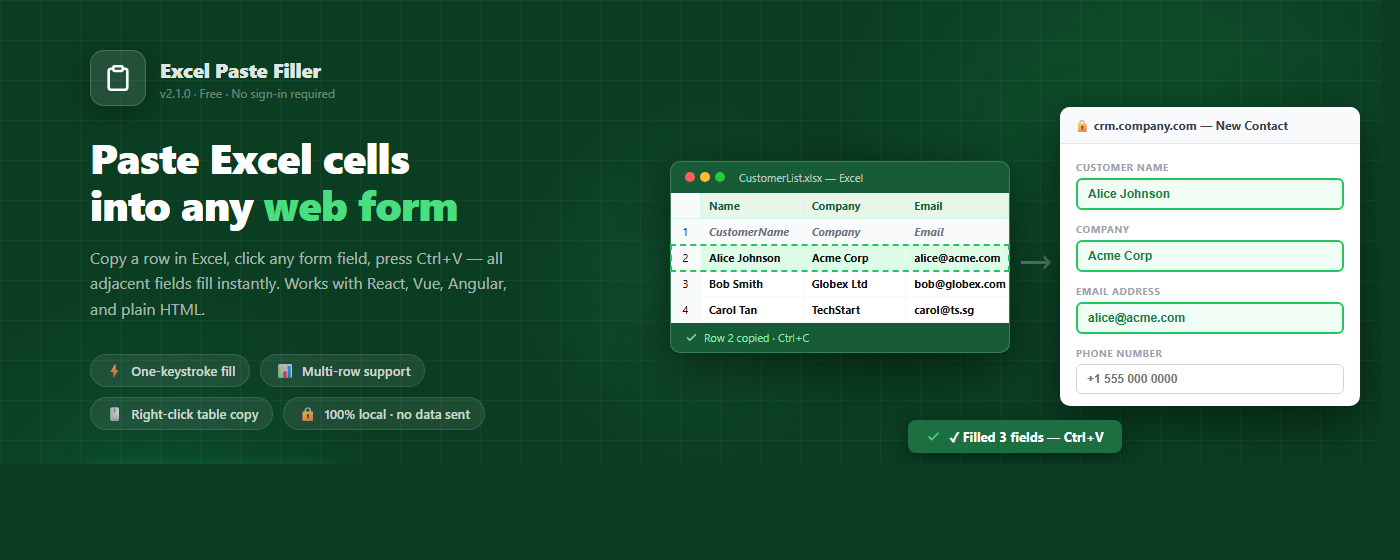
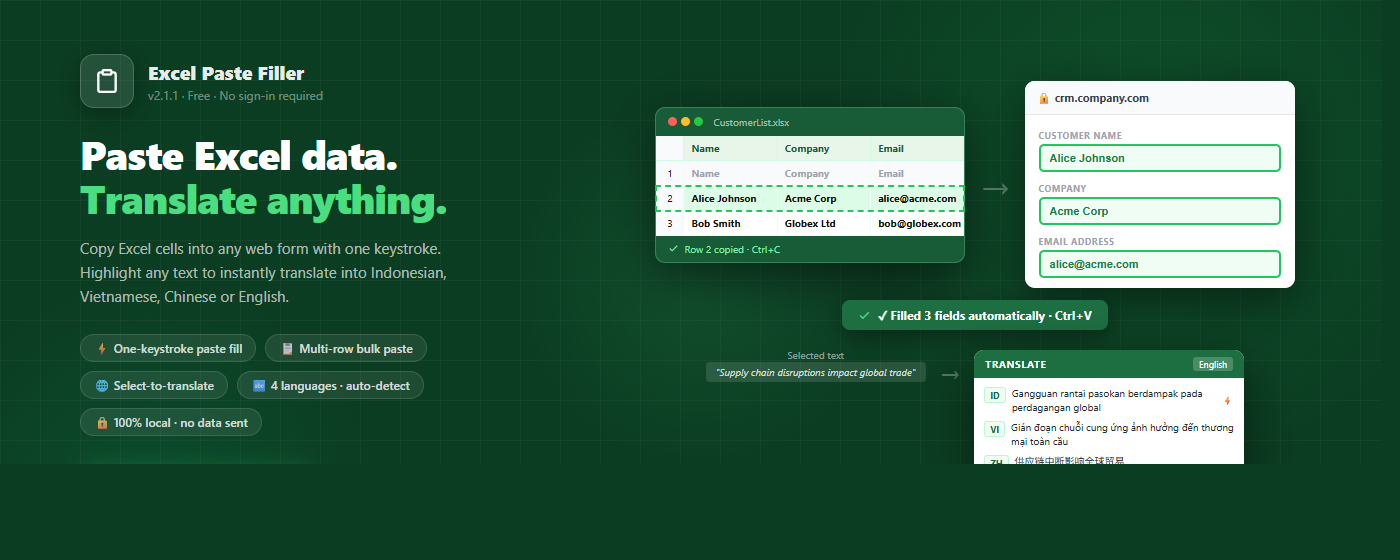
Rebuild promo tiles for v2.1.1 - add translate feature

diff --git a/screenshots/promo_marquee.html b/screenshots/promo_marquee.html
@@ -5,74 +5,72 @@
 <style>
 *{box-sizing:border-box;margin:0;padding:0}
 body{width:1400px;height:560px;overflow:hidden;font-family:system-ui,-apple-system,sans-serif;background:#0b3d22;position:relative}
-
-/* grid */
 .grid{position:absolute;inset:0;background-image:linear-gradient(rgba(255,255,255,.035) 1px,transparent 1px),linear-gradient(90deg,rgba(255,255,255,.035) 1px,transparent 1px);background-size:40px 40px}
+.blob1{position:absolute;width:700px;height:700px;border-radius:50%;background:radial-gradient(circle,rgba(34,197,94,.14) 0%,transparent 65%);top:-200px;right:-100px}
+.blob2{position:absolute;width:500px;height:500px;border-radius:50%;background:radial-gradient(circle,rgba(16,185,129,.12) 0%,transparent 65%);bottom:-200px;left:-100px}
+.blob3{position:absolute;width:400px;height:400px;border-radius:50%;background:radial-gradient(circle,rgba(29,111,66,.35) 0%,transparent 65%);top:50%;left:50%;transform:translate(-50%,-50%)}
+.layout{position:relative;z-index:2;display:flex;align-items:center;height:100%;padding:0 80px;gap:70px}
 
-/* glow blobs */
-.blob1{position:absolute;width:700px;height:700px;border-radius:50%;background:radial-gradient(circle,rgba(34,197,94,.14) 0%,transparent 65%);top:-200px;right:-100px;pointer-events:none}
-.blob2{position:absolute;width:500px;height:500px;border-radius:50%;background:radial-gradient(circle,rgba(16,185,129,.12) 0%,transparent 65%);bottom:-200px;left:-100px;pointer-events:none}
-.blob3{position:absolute;width:400px;height:400px;border-radius:50%;background:radial-gradient(circle,rgba(29,111,66,.35) 0%,transparent 65%);top:50%;left:50%;transform:translate(-50%,-50%);pointer-events:none}
-
-/* layout: left text | right visual */
-.layout{position:relative;z-index:2;display:flex;align-items:center;height:100%;padding:0 90px;gap:80px}
-
-/* ── LEFT ── */
-.left{flex:0 0 auto;max-width:500px}
-.logo-row{display:flex;align-items:center;gap:14px;margin-bottom:28px}
-.logo-box{width:56px;height:56px;background:rgba(255,255,255,.1);border:1px solid rgba(255,255,255,.18);border-radius:14px;display:flex;align-items:center;justify-content:center;box-shadow:0 6px 24px rgba(0,0,0,.3)}
-.product-name{font-size:20px;font-weight:800;color:rgba(255,255,255,.9);letter-spacing:-.2px}
+/* LEFT */
+.left{flex:0 0 auto;max-width:480px}
+.logo-row{display:flex;align-items:center;gap:14px;margin-bottom:24px}
+.logo-box{width:54px;height:54px;background:rgba(255,255,255,.1);border:1px solid rgba(255,255,255,.18);border-radius:14px;display:flex;align-items:center;justify-content:center;box-shadow:0 6px 24px rgba(0,0,0,.3)}
+.product-name{font-size:19px;font-weight:800;color:rgba(255,255,255,.9)}
 .product-ver{font-size:12px;color:rgba(255,255,255,.4);margin-top:2px}
-
-.headline{font-size:42px;font-weight:900;color:#fff;line-height:1.1;letter-spacing:-.8px;margin-bottom:18px}
+.headline{font-size:40px;font-weight:900;color:#fff;line-height:1.1;letter-spacing:-.8px;margin-bottom:16px}
 .headline span{color:#4ade80}
-.sub{font-size:16px;color:rgba(255,255,255,.65);line-height:1.6;margin-bottom:32px;max-width:420px}
-
-.pills{display:flex;flex-wrap:wrap;gap:10px;margin-bottom:36px}
-.pill{display:flex;align-items:center;gap:7px;background:rgba(255,255,255,.08);border:1px solid rgba(255,255,255,.12);border-radius:20px;padding:6px 14px;font-size:13px;color:rgba(255,255,255,.8);font-weight:600}
-.pill-icon{font-size:14px}
-
+.sub{font-size:15px;color:rgba(255,255,255,.65);line-height:1.6;margin-bottom:26px;max-width:420px}
+.pills{display:flex;flex-wrap:wrap;gap:9px;margin-bottom:30px}
+.pill{display:flex;align-items:center;gap:6px;background:rgba(255,255,255,.08);border:1px solid rgba(255,255,255,.12);border-radius:20px;padding:5px 13px;font-size:12px;color:rgba(255,255,255,.8);font-weight:600}
 .cta-row{display:flex;align-items:center;gap:16px}
-.btn-cta{display:inline-flex;align-items:center;gap:8px;background:#22c55e;color:#fff;padding:12px 28px;border-radius:10px;font-size:15px;font-weight:800;box-shadow:0 4px 20px rgba(34,197,94,.4);letter-spacing:-.1px}
+.btn-cta{display:inline-flex;align-items:center;gap:8px;background:#22c55e;color:#fff;padding:11px 26px;border-radius:10px;font-size:14px;font-weight:800;box-shadow:0 4px 20px rgba(34,197,94,.4)}
 .privacy-note{font-size:12px;color:rgba(255,255,255,.4);display:flex;align-items:center;gap:5px}
 
-/* ── RIGHT visual ── */
+/* RIGHT */
 .right{flex:1;position:relative;display:flex;align-items:center;justify-content:center}
+.right-inner{display:flex;flex-direction:column;align-items:center;gap:12px}
+.win-row{display:flex;align-items:center;gap:14px}
 
-/* Excel mini window */
-.excel-win{background:#217346;border-radius:10px;width:340px;box-shadow:0 12px 48px rgba(0,0,0,.5);border:1px solid rgba(255,255,255,.1)}
-.win-header{background:#185c37;border-radius:10px 10px 0 0;padding:8px 14px;display:flex;align-items:center;gap:8px}
-.win-dots{display:flex;gap:5px}
-.wd{width:10px;height:10px;border-radius:50%}
+/* Excel window */
+.excel-win{background:#217346;border-radius:10px;width:310px;box-shadow:0 12px 48px rgba(0,0,0,.5);border:1px solid rgba(255,255,255,.1)}
+.win-header{background:#185c37;border-radius:10px 10px 0 0;padding:7px 12px;display:flex;align-items:center;gap:6px}
+.win-dots{display:flex;gap:4px}
+.wd{width:9px;height:9px;border-radius:50%}
 .wr{background:#ff5f57}.wy{background:#ffbd2e}.wg{background:#28c840}
-.win-title{font-size:11px;color:rgba(255,255,255,.7);margin-left:6px}
-.excel-grid{background:#fff;border-radius:0 0 0 0}
-.grid-head{display:grid;grid-template-columns:30px repeat(3,1fr);background:#e8f5e9}
-.gcell{padding:5px 8px;font-size:11px;font-weight:700;color:#185c37;border-right:1px solid #d1fae5;border-bottom:1px solid #d1fae5;white-space:nowrap;overflow:hidden}
+.win-title{font-size:10px;color:rgba(255,255,255,.6);margin-left:4px}
+.excel-grid{background:#fff}
+.grid-head{display:grid;grid-template-columns:28px repeat(3,1fr);background:#e8f5e9}
+.gcell{padding:5px 7px;font-size:10px;font-weight:700;color:#185c37;border-right:1px solid #d1fae5;border-bottom:1px solid #d1fae5;white-space:nowrap;overflow:hidden}
 .gcell.num{color:#9ca3af;background:#f9fafb;font-weight:400;text-align:center}
-.grid-row{display:grid;grid-template-columns:30px repeat(3,1fr)}
+.grid-row{display:grid;grid-template-columns:28px repeat(3,1fr)}
 .grid-row.sel{background:#dcfce7;outline:2px dashed #22c55e;outline-offset:-1px}
-.gcell.d{padding:5px 8px;font-size:11px;color:#111;border-right:1px solid #f0fdf4;border-bottom:1px solid #f0fdf4;white-space:nowrap;overflow:hidden}
-.copy-bar{background:#185c37;border-radius:0 0 10px 10px;padding:7px 14px;font-size:11px;color:#86efac;display:flex;align-items:center;gap:6px}
+.gcell.d{padding:5px 7px;font-size:10px;color:#111;border-right:1px solid #f0fdf4;border-bottom:1px solid #f0fdf4;white-space:nowrap;overflow:hidden}
+.copy-bar{background:#185c37;border-radius:0 0 10px 10px;padding:6px 12px;font-size:10px;color:#86efac;display:flex;align-items:center;gap:5px}
+.big-arrow{font-size:36px;color:rgba(255,255,255,.3)}
 
-/* arrow */
-.big-arrow{font-size:44px;color:rgba(255,255,255,.3);margin:0 -8px;user-select:none}
-
-/* Form mini window */
-.form-win{background:#fff;border-radius:10px;width:300px;box-shadow:0 12px 48px rgba(0,0,0,.5)}
-.form-header{background:#f9fafb;border-radius:10px 10px 0 0;padding:10px 14px;border-bottom:1px solid #e5e7eb;font-size:12px;font-weight:700;color:#374151}
-.form-body{padding:16px 16px 12px}
-.frow{margin-bottom:12px}
-.flabel{font-size:10px;font-weight:700;text-transform:uppercase;letter-spacing:.05em;color:#9ca3af;margin-bottom:4px}
-.finput{width:100%;padding:7px 10px;border-radius:6px;font-size:12px;font-weight:600}
+/* Form window */
+.form-win{background:#fff;border-radius:10px;width:270px;box-shadow:0 12px 48px rgba(0,0,0,.5)}
+.form-header{background:#f9fafb;border-radius:10px 10px 0 0;padding:9px 12px;border-bottom:1px solid #e5e7eb;font-size:11px;font-weight:700;color:#374151}
+.form-body{padding:14px 14px 10px}
+.frow{margin-bottom:10px}
+.flabel{font-size:9px;font-weight:700;text-transform:uppercase;letter-spacing:.05em;color:#9ca3af;margin-bottom:3px}
+.finput{width:100%;padding:6px 9px;border-radius:5px;font-size:11px;font-weight:600}
 .finput.filled{border:2px solid #22c55e;background:#f0fdf4;color:#15803d}
 .finput.empty{border:1px solid #d1d5db;background:#fff;color:#d1d5db}
+.toast{background:#1d6f42;color:#fff;border-radius:8px;padding:7px 16px;font-size:12px;font-weight:700;display:flex;align-items:center;gap:7px;box-shadow:0 6px 20px rgba(0,0,0,.35);white-space:nowrap}
 
-/* toast overlay */
-.toast{background:#1d6f42;color:#fff;border-radius:8px;padding:8px 18px;font-size:13px;font-weight:700;display:flex;align-items:center;gap:8px;box-shadow:0 6px 20px rgba(0,0,0,.35);margin-top:14px;align-self:center;white-space:nowrap}
-
-.right-inner{display:flex;flex-direction:column;align-items:center;gap:0}
-.win-row{display:flex;align-items:center;gap:14px}
+/* Translate tooltip */
+.tip-win{background:#fff;border-radius:10px;width:270px;box-shadow:0 12px 48px rgba(0,0,0,.5);overflow:hidden;margin-top:4px}
+.tip-header{background:#1d6f42;padding:7px 11px;display:flex;align-items:center;gap:7px}
+.tip-title{font-size:10px;font-weight:700;letter-spacing:.06em;text-transform:uppercase;color:#fff;flex:1}
+.tip-src{font-size:9px;background:rgba(255,255,255,.2);border-radius:3px;padding:1px 6px;color:#fff}
+.tip-body{padding:8px 10px;display:flex;flex-direction:column;gap:6px}
+.tip-row{display:flex;align-items:flex-start;gap:6px}
+.tip-badge{font-size:9px;font-weight:700;background:#f0fdf4;color:#166534;border:1px solid #bbf7d0;border-radius:3px;padding:1px 5px;white-space:nowrap;flex-shrink:0;margin-top:1px}
+.tip-text{font-size:10px;color:#1f2937;line-height:1.4;flex:1}
+.tip-cache{font-size:9px;color:#9ca3af;align-self:center}
+.sel-label{font-size:10px;color:rgba(255,255,255,.5);text-align:center;margin-top:2px}
+.sel-text{background:rgba(255,255,255,.12);border-radius:4px;padding:3px 10px;font-size:10px;color:rgba(255,255,255,.8);font-style:italic;text-align:center}
 </style>
 </head>
 <body>
@@ -82,124 +80,104 @@ body{width:1400px;height:560px;overflow:hidden;font-family:system-ui,-apple-syst
 <div class="blob3"></div>
 
 <div class="layout">
-
-  <!-- LEFT: copy -->
+  <!-- LEFT -->
   <div class="left">
     <div class="logo-row">
       <div class="logo-box">
-        <svg width="28" height="28" viewBox="0 0 24 24" fill="none" stroke="#fff" stroke-width="2.2">
+        <svg width="26" height="26" viewBox="0 0 24 24" fill="none" stroke="#fff" stroke-width="2.2">
           <path d="M16 4h2a2 2 0 0 1 2 2v14a2 2 0 0 1-2 2H6a2 2 0 0 1-2-2V6a2 2 0 0 1 2-2h2"/>
           <rect x="8" y="2" width="8" height="4" rx="1"/>
         </svg>
       </div>
       <div>
         <div class="product-name">Excel Paste Filler</div>
-        <div class="product-ver">v2.1.0 · Free · No sign-in required</div>
+        <div class="product-ver">v2.1.1 · Free · No sign-in required</div>
       </div>
     </div>
-
-    <div class="headline">Paste Excel cells<br>into any <span>web form</span></div>
-    <div class="sub">Copy a row in Excel, click any form field, press Ctrl+V — all adjacent fields fill instantly. Works with React, Vue, Angular, and plain HTML.</div>
-
+    <div class="headline">Paste Excel data.<br><span>Translate anything.</span></div>
+    <div class="sub">Copy Excel cells into any web form with one keystroke. Highlight any text to instantly translate into Indonesian, Vietnamese, Chinese or English.</div>
     <div class="pills">
-      <div class="pill"><span class="pill-icon">⚡</span>One-keystroke fill</div>
-      <div class="pill"><span class="pill-icon">📊</span>Multi-row support</div>
-      <div class="pill"><span class="pill-icon">🖱</span>Right-click table copy</div>
-      <div class="pill"><span class="pill-icon">🔒</span>100% local · no data sent</div>
+      <div class="pill">⚡ One-keystroke paste fill</div>
+      <div class="pill">📋 Multi-row bulk paste</div>
+      <div class="pill">🌐 Select-to-translate</div>
+      <div class="pill">🔤 4 languages · auto-detect</div>
+      <div class="pill">🔒 100% local · no data sent</div>
     </div>
-
     <div class="cta-row">
       <div class="btn-cta">
-        <svg width="18" height="18" viewBox="0 0 24 24" fill="none" stroke="#fff" stroke-width="2.5"><path d="M16 4h2a2 2 0 0 1 2 2v14a2 2 0 0 1-2 2H6a2 2 0 0 1-2-2V6a2 2 0 0 1 2-2h2"/><rect x="8" y="2" width="8" height="4" rx="1"/></svg>
+        <svg width="16" height="16" viewBox="0 0 24 24" fill="none" stroke="#fff" stroke-width="2.5"><path d="M16 4h2a2 2 0 0 1 2 2v14a2 2 0 0 1-2 2H6a2 2 0 0 1-2-2V6a2 2 0 0 1 2-2h2"/><rect x="8" y="2" width="8" height="4" rx="1"/></svg>
         Add to Chrome — Free
       </div>
       <div class="privacy-note">
-        <svg width="13" height="13" viewBox="0 0 24 24" fill="none" stroke="currentColor" stroke-width="2"><path d="M12 22s8-4 8-10V5l-8-3-8 3v7c0 6 8 10 8 10z"/></svg>
+        <svg width="12" height="12" viewBox="0 0 24 24" fill="none" stroke="currentColor" stroke-width="2"><path d="M12 22s8-4 8-10V5l-8-3-8 3v7c0 6 8 10 8 10z"/></svg>
         No account · No tracking
       </div>
     </div>
   </div>
 
-  <!-- RIGHT: visual demo -->
+  <!-- RIGHT -->
   <div class="right">
     <div class="right-inner">
+      <!-- Paste Fill demo -->
       <div class="win-row">
-        <!-- Excel window -->
         <div class="excel-win">
           <div class="win-header">
             <div class="win-dots"><div class="wd wr"></div><div class="wd wy"></div><div class="wd wg"></div></div>
-            <div class="win-title">CustomerList.xlsx — Excel</div>
+            <div class="win-title">CustomerList.xlsx</div>
           </div>
           <div class="excel-grid">
             <div class="grid-head">
-              <div class="gcell num"></div>
-              <div class="gcell">Name</div>
-              <div class="gcell">Company</div>
-              <div class="gcell">Email</div>
+              <div class="gcell num"></div><div class="gcell">Name</div><div class="gcell">Company</div><div class="gcell">Email</div>
             </div>
             <div class="grid-row" style="background:#f9fafb">
-              <div class="gcell num d">1</div>
-              <div class="gcell d" style="color:#6b7280;font-style:italic">CustomerName</div>
-              <div class="gcell d" style="color:#6b7280;font-style:italic">Company</div>
-              <div class="gcell d" style="color:#6b7280;font-style:italic">Email</div>
+              <div class="gcell num d">1</div><div class="gcell d" style="color:#9ca3af">Name</div><div class="gcell d" style="color:#9ca3af">Company</div><div class="gcell d" style="color:#9ca3af">Email</div>
             </div>
             <div class="grid-row sel">
-              <div class="gcell num d">2</div>
-              <div class="gcell d">Alice Johnson</div>
-              <div class="gcell d">Acme Corp</div>
-              <div class="gcell d">alice@acme.com</div>
+              <div class="gcell num d">2</div><div class="gcell d">Alice Johnson</div><div class="gcell d">Acme Corp</div><div class="gcell d">alice@acme.com</div>
             </div>
             <div class="grid-row">
-              <div class="gcell num d">3</div>
-              <div class="gcell d">Bob Smith</div>
-              <div class="gcell d">Globex Ltd</div>
-              <div class="gcell d">bob@globex.com</div>
-            </div>
-            <div class="grid-row">
-              <div class="gcell num d">4</div>
-              <div class="gcell d">Carol Tan</div>
-              <div class="gcell d">TechStart</div>
-              <div class="gcell d">carol@ts.sg</div>
+              <div class="gcell num d">3</div><div class="gcell d">Bob Smith</div><div class="gcell d">Globex Ltd</div><div class="gcell d">bob@globex.com</div>
             </div>
           </div>
-          <div class="copy-bar">
-            <svg width="13" height="13" viewBox="0 0 24 24" fill="none" stroke="currentColor" stroke-width="2.5"><polyline points="20 6 9 17 4 12"/></svg>
-            Row 2 copied · Ctrl+C
-          </div>
+          <div class="copy-bar"><svg width="11" height="11" viewBox="0 0 24 24" fill="none" stroke="currentColor" stroke-width="2.5"><polyline points="20 6 9 17 4 12"/></svg>Row 2 copied · Ctrl+C</div>
         </div>
-
         <div class="big-arrow">→</div>
-
-        <!-- Form window -->
         <div class="form-win">
-          <div class="form-header">🔒 crm.company.com — New Contact</div>
+          <div class="form-header">&#128274; crm.company.com</div>
           <div class="form-body">
-            <div class="frow">
-              <div class="flabel">Customer Name</div>
-              <input class="finput filled" value="Alice Johnson" readonly>
-            </div>
-            <div class="frow">
-              <div class="flabel">Company</div>
-              <input class="finput filled" value="Acme Corp" readonly>
-            </div>
-            <div class="frow">
-              <div class="flabel">Email Address</div>
-              <input class="finput filled" value="alice@acme.com" readonly>
-            </div>
-            <div class="frow" style="margin-bottom:0">
-              <div class="flabel">Phone Number</div>
-              <input class="finput empty" placeholder="+1 555 000 0000" readonly>
-            </div>
+            <div class="frow"><div class="flabel">Customer Name</div><input class="finput filled" value="Alice Johnson" readonly></div>
+            <div class="frow"><div class="flabel">Company</div><input class="finput filled" value="Acme Corp" readonly></div>
+            <div class="frow" style="margin-bottom:0"><div class="flabel">Email Address</div><input class="finput filled" value="alice@acme.com" readonly></div>
           </div>
         </div>
       </div>
 
       <div class="toast">
-        <svg width="15" height="15" viewBox="0 0 24 24" fill="none" stroke="#4ade80" stroke-width="2.5"><polyline points="20 6 9 17 4 12"/></svg>
-        ✓ Filled 3 fields — Ctrl+V
+        <svg width="13" height="13" viewBox="0 0 24 24" fill="none" stroke="#4ade80" stroke-width="2.5"><polyline points="20 6 9 17 4 12"/></svg>
+        &#10003; Filled 3 fields automatically · Ctrl+V
       </div>
+
+      <!-- Translate tooltip demo -->
+      <div style="display:flex;align-items:flex-start;gap:14px;margin-top:4px">
+        <div>
+          <div class="sel-label">Selected text</div>
+          <div class="sel-text">"Supply chain disruptions impact global trade"</div>
+        </div>
+        <div class="big-arrow" style="font-size:24px;margin-top:10px">→</div>
+        <div class="tip-win">
+          <div class="tip-header">
+            <span class="tip-title">Translate</span>
+            <span class="tip-src">English</span>
+          </div>
+          <div class="tip-body">
+            <div class="tip-row"><span class="tip-badge">ID</span><span class="tip-text">Gangguan rantai pasokan berdampak pada perdagangan global</span><span class="tip-cache">&#9889;</span></div>
+            <div class="tip-row"><span class="tip-badge">VI</span><span class="tip-text">Gián đoạn chuỗi cung ứng ảnh hưởng đến thương mại toàn cầu</span></div>
+            <div class="tip-row"><span class="tip-badge">ZH</span><span class="tip-text">供应链中断影响全球贸易</span></div>
+          </div>
+        </div>
+      </div>
+
     </div>
   </div>
-
 </div>
 </body></html>

diff --git a/screenshots/promo_small.html b/screenshots/promo_small.html
@@ -5,63 +5,58 @@
 <style>
 *{box-sizing:border-box;margin:0;padding:0}
 body{width:440px;height:280px;overflow:hidden;font-family:system-ui,-apple-system,sans-serif;background:#0f4c2a;position:relative}
-
-/* subtle grid lines */
 .grid{position:absolute;inset:0;background-image:linear-gradient(rgba(255,255,255,.04) 1px,transparent 1px),linear-gradient(90deg,rgba(255,255,255,.04) 1px,transparent 1px);background-size:28px 28px}
-
-/* glow blobs */
 .blob1{position:absolute;width:300px;height:300px;border-radius:50%;background:radial-gradient(circle,rgba(34,197,94,.18) 0%,transparent 70%);top:-80px;right:-60px}
 .blob2{position:absolute;width:200px;height:200px;border-radius:50%;background:radial-gradient(circle,rgba(29,111,66,.4) 0%,transparent 70%);bottom:-60px;left:-40px}
-
-.content{position:relative;z-index:2;display:flex;flex-direction:column;align-items:center;justify-content:center;height:100%;padding:28px 32px;text-align:center}
-
-/* icon */
-.icon-wrap{width:52px;height:52px;background:rgba(255,255,255,.12);border:1px solid rgba(255,255,255,.2);border-radius:14px;display:flex;align-items:center;justify-content:center;margin-bottom:14px;box-shadow:0 4px 20px rgba(0,0,0,.3)}
-
-.name{font-size:18px;font-weight:800;color:#fff;letter-spacing:-.3px;margin-bottom:6px}
-.tagline{font-size:12px;color:rgba(255,255,255,.7);line-height:1.5;margin-bottom:18px;max-width:300px}
-
-/* mini demo strip */
-.demo-strip{display:flex;align-items:center;gap:8px;background:rgba(255,255,255,.08);border:1px solid rgba(255,255,255,.12);border-radius:10px;padding:10px 16px}
-.excel-chip{background:#217346;border-radius:6px;padding:4px 10px;font-size:11px;font-weight:700;color:#fff;display:flex;align-items:center;gap:5px}
+.content{position:relative;z-index:2;display:flex;flex-direction:column;align-items:center;justify-content:center;height:100%;padding:24px 28px;text-align:center}
+.icon-wrap{width:48px;height:48px;background:rgba(255,255,255,.12);border:1px solid rgba(255,255,255,.2);border-radius:13px;display:flex;align-items:center;justify-content:center;margin-bottom:12px;box-shadow:0 4px 20px rgba(0,0,0,.3)}
+.name{font-size:17px;font-weight:800;color:#fff;letter-spacing:-.3px;margin-bottom:5px}
+.tagline{font-size:11px;color:rgba(255,255,255,.7);line-height:1.5;margin-bottom:14px;max-width:320px}
+.features{display:flex;gap:8px;justify-content:center;margin-bottom:14px}
+.feat{background:rgba(255,255,255,.08);border:1px solid rgba(255,255,255,.12);border-radius:20px;padding:4px 11px;font-size:10px;font-weight:700;color:rgba(255,255,255,.8);display:flex;align-items:center;gap:4px}
+.demo-strip{display:flex;align-items:center;gap:8px;background:rgba(255,255,255,.08);border:1px solid rgba(255,255,255,.12);border-radius:10px;padding:9px 14px}
+.excel-chip{background:#217346;border-radius:5px;padding:3px 9px;font-size:11px;font-weight:700;color:#fff;display:flex;align-items:center;gap:4px}
 .arrow{color:rgba(255,255,255,.5);font-size:14px}
-.form-chip{display:flex;gap:5px}
-.fbox{width:44px;height:18px;border-radius:4px;border:2px solid #22c55e;background:rgba(34,197,94,.15)}
+.form-chip{display:flex;gap:4px}
+.fbox{width:40px;height:16px;border-radius:4px;border:2px solid #22c55e;background:rgba(34,197,94,.15)}
 .fbox.dim{border-color:rgba(255,255,255,.2);background:rgba(255,255,255,.05)}
-
-/* badge */
-.badge{position:absolute;bottom:16px;right:16px;background:rgba(34,197,94,.2);border:1px solid rgba(34,197,94,.4);border-radius:20px;padding:3px 10px;font-size:10px;font-weight:700;color:#86efac;letter-spacing:.05em}
+.translate-chip{display:flex;align-items:center;gap:4px;background:rgba(74,222,128,.15);border:1px solid rgba(74,222,128,.3);border-radius:5px;padding:3px 8px;font-size:10px;font-weight:700;color:#4ade80}
+.badge{position:absolute;bottom:14px;right:14px;background:rgba(34,197,94,.2);border:1px solid rgba(34,197,94,.4);border-radius:20px;padding:3px 10px;font-size:10px;font-weight:700;color:#86efac;letter-spacing:.05em}
 </style>
 </head>
 <body>
 <div class="grid"></div>
 <div class="blob1"></div>
 <div class="blob2"></div>
-
 <div class="content">
   <div class="icon-wrap">
-    <svg width="26" height="26" viewBox="0 0 24 24" fill="none" stroke="#fff" stroke-width="2.3">
+    <svg width="24" height="24" viewBox="0 0 24 24" fill="none" stroke="#fff" stroke-width="2.3">
       <path d="M16 4h2a2 2 0 0 1 2 2v14a2 2 0 0 1-2 2H6a2 2 0 0 1-2-2V6a2 2 0 0 1 2-2h2"/>
       <rect x="8" y="2" width="8" height="4" rx="1"/>
     </svg>
   </div>
   <div class="name">Excel Paste Filler</div>
-  <div class="tagline">Copy cells from Excel, paste into any web form — adjacent fields fill automatically</div>
-
+  <div class="tagline">Paste Excel data into any web form instantly.<br>Plus select-to-translate in 4 languages.</div>
+  <div class="features">
+    <div class="feat">⚡ Paste Fill</div>
+    <div class="feat">🌐 Translate</div>
+    <div class="feat">🔒 No servers</div>
+  </div>
   <div class="demo-strip">
     <div class="excel-chip">
-      <svg width="12" height="12" viewBox="0 0 24 24" fill="none" stroke="#fff" stroke-width="2.5"><rect x="3" y="3" width="18" height="18" rx="2"/><path d="M3 9h18M3 15h18M9 3v18"/></svg>
+      <svg width="11" height="11" viewBox="0 0 24 24" fill="none" stroke="#fff" stroke-width="2.5"><rect x="3" y="3" width="18" height="18" rx="2"/><path d="M3 9h18M3 15h18M9 3v18"/></svg>
       Excel
     </div>
     <div class="arrow">→</div>
     <div class="form-chip">
-      <div class="fbox"></div>
-      <div class="fbox"></div>
-      <div class="fbox dim"></div>
+      <div class="fbox"></div><div class="fbox"></div><div class="fbox dim"></div>
     </div>
-    <div style="font-size:11px;color:rgba(255,255,255,.6);margin-left:2px">Ctrl+V</div>
+    <div class="arrow">·</div>
+    <div class="translate-chip">
+      <svg width="10" height="10" viewBox="0 0 24 24" fill="none" stroke="currentColor" stroke-width="2.5"><path d="M5 8l6 6"/><path d="M4 14l6-6 2-2"/><path d="M2 5h12"/><path d="M7 2h1"/><path d="M22 22l-5-10-5 10"/><path d="M14 18h6"/></svg>
+      ID · VI · ZH · EN
+    </div>
   </div>
 </div>
-
-<div class="badge">ALL LOCAL · NO SERVERS</div>
+<div class="badge">FREE · NO SIGN-IN</div>
 </body></html>
